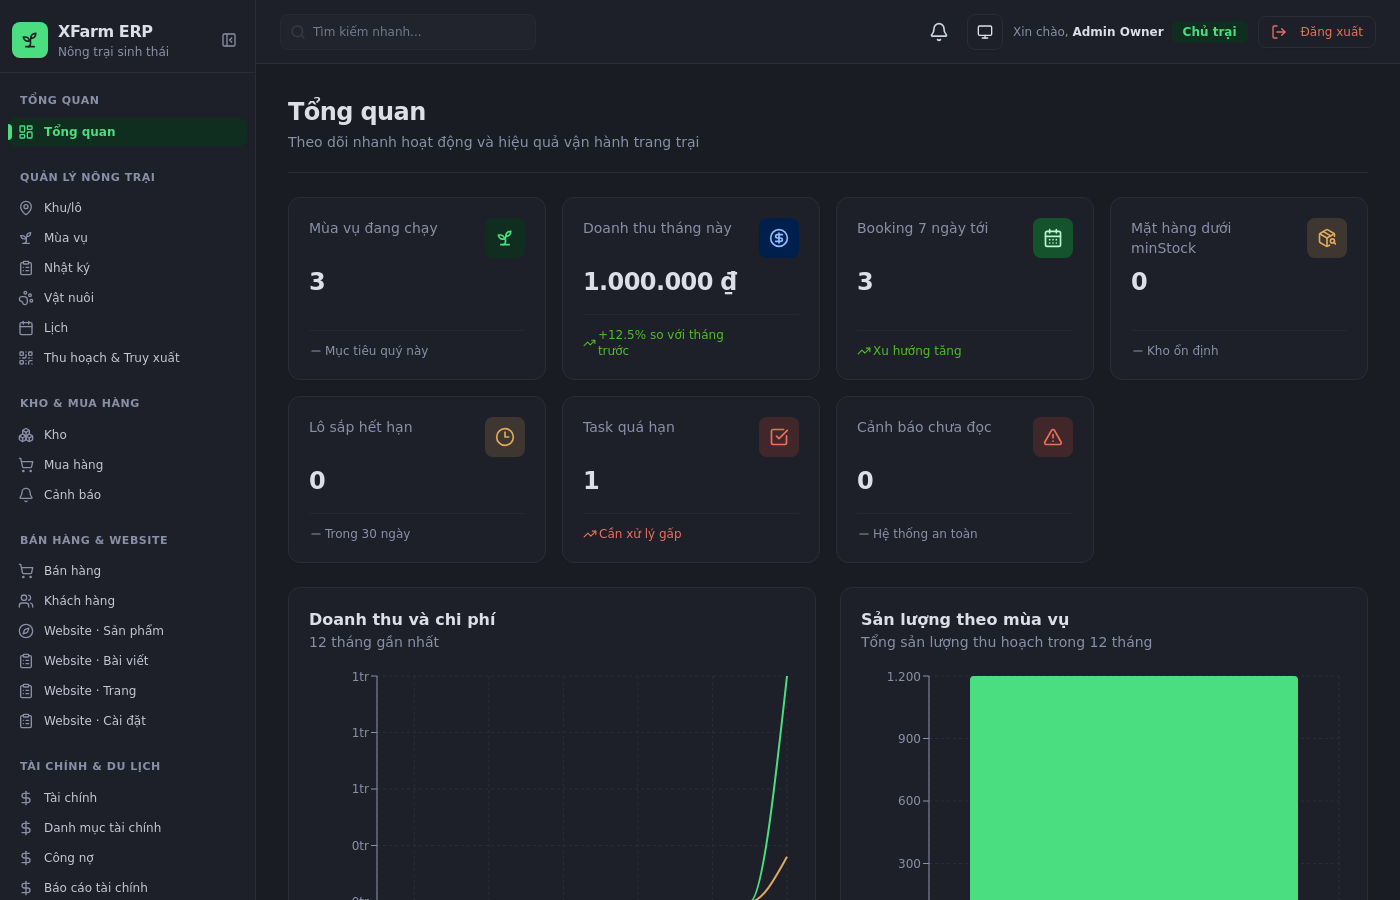
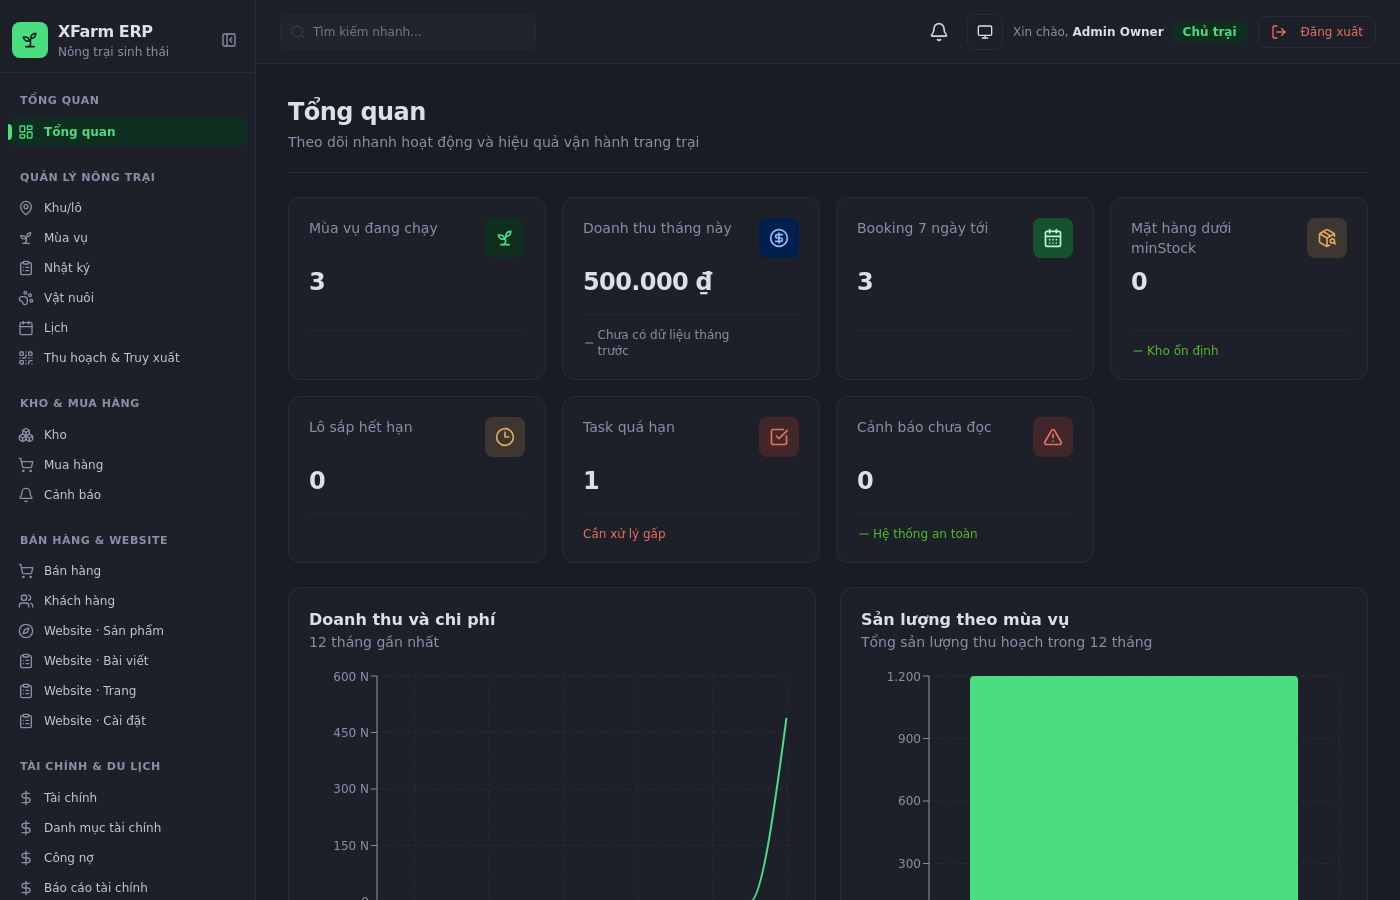
fix(web): calculate real revenue trend and format compact y-axis on dashboard

diff --git a/apps/web/src/app/admin/page.tsx b/apps/web/src/app/admin/page.tsx
@@ -65,6 +65,10 @@ const emptySummary: Summary = {
 
 const money = new Intl.NumberFormat('vi-VN', { maximumFractionDigits: 0 });
 const quantity = new Intl.NumberFormat('vi-VN', { maximumFractionDigits: 3 });
+const compactCurrency = new Intl.NumberFormat('vi-VN', {
+  notation: 'compact',
+  maximumFractionDigits: 1,
+});
 
 interface KpiCardProps {
   href: string;
@@ -119,8 +123,25 @@ function KpiCard({ href, label, value, icon: Icon, tone, trend }: KpiCardProps) 
               </span>
             )}
             {trend.direction === 'neutral' && (
-              <span className="inline-flex items-center gap-0.5 font-medium text-muted">
+              <span
+                className={`inline-flex items-center gap-0.5 font-medium ${
+                  trend.isGood ? 'text-ok' : 'text-muted'
+                }`}
+              >
                 <Minus className="h-3.5 w-3.5" />
+                {trend.label}
+              </span>
+            )}
+            {!trend.direction && (
+              <span
+                className={`inline-flex items-center gap-0.5 font-medium ${
+                  trend.isGood === true
+                    ? 'text-ok'
+                    : trend.isGood === false
+                      ? 'text-crit'
+                      : 'text-muted'
+                }`}
+              >
                 {trend.label}
               </span>
             )}
@@ -173,6 +194,46 @@ export default function AdminDashboardPage() {
     quantityValue: Number(item.quantity),
   }));
 
+  const revenueTrend = React.useMemo(() => {
+    if (!charts.months || charts.months.length < 2) {
+      return { label: 'Chưa có dữ liệu tháng trước', direction: 'neutral' as const };
+    }
+    const currentMonthItem = charts.months[charts.months.length - 1];
+    const prevMonthItem = charts.months[charts.months.length - 2];
+
+    const currentRevenue = Number(summary.revenueThisMonth || currentMonthItem?.revenue || 0);
+    const prevRevenue = Number(prevMonthItem?.revenue || 0);
+
+    if (prevRevenue <= 0) {
+      return { label: 'Chưa có dữ liệu tháng trước', direction: 'neutral' as const };
+    }
+
+    const diff = currentRevenue - prevRevenue;
+    const pct = (diff / prevRevenue) * 100;
+    const formattedPct = `${pct > 0 ? '+' : ''}${pct.toLocaleString('vi-VN', {
+      maximumFractionDigits: 1,
+    })}%`;
+
+    if (pct > 0) {
+      return {
+        label: `${formattedPct} so với tháng trước`,
+        direction: 'up' as const,
+        isGood: true,
+      };
+    } else if (pct < 0) {
+      return {
+        label: `${formattedPct} so với tháng trước`,
+        direction: 'down' as const,
+        isGood: false,
+      };
+    } else {
+      return {
+        label: '0% so với tháng trước',
+        direction: 'neutral' as const,
+      };
+    }
+  }, [charts.months, summary.revenueThisMonth]);
+
   return (
     <div className="space-y-6" data-testid="dashboard-page">
       <PageHeader
@@ -199,7 +260,6 @@ export default function AdminDashboardPage() {
                 value={summary.activeCycles}
                 icon={Sprout}
                 tone="bg-accent-bg text-accent"
-                trend={{ label: 'Mục tiêu quý này', direction: 'neutral' }}
               />
             )}
             <KpiCard
@@ -208,7 +268,7 @@ export default function AdminDashboardPage() {
               value={`${money.format(Number(summary.revenueThisMonth))} ₫`}
               icon={CircleDollarSign}
               tone="bg-info-bg text-info"
-              trend={{ label: '+12.5% so với tháng trước', direction: 'up', isGood: true }}
+              trend={revenueTrend}
             />
             <KpiCard
               href="/admin/tours/bookings"
@@ -216,7 +276,6 @@ export default function AdminDashboardPage() {
               value={summary.upcomingBookings}
               icon={CalendarDays}
               tone="bg-chip text-chip-text"
-              trend={{ label: 'Xu hướng tăng', direction: 'up', isGood: true }}
             />
             {!isSales && (
               <KpiCard
@@ -227,7 +286,7 @@ export default function AdminDashboardPage() {
                 tone="bg-warn-bg text-warn"
                 trend={
                   summary.lowStockItems > 0
-                    ? { label: 'Cần bổ sung kho', direction: 'up', isGood: false }
+                    ? { label: 'Cần bổ sung kho', isGood: false }
                     : { label: 'Kho ổn định', direction: 'neutral', isGood: true }
                 }
               />
@@ -239,7 +298,11 @@ export default function AdminDashboardPage() {
                 value={summary.expiringLots}
                 icon={Clock3}
                 tone="bg-warn-bg text-warn"
-                trend={{ label: 'Trong 30 ngày', direction: 'neutral' }}
+                trend={
+                  summary.expiringLots > 0
+                    ? { label: 'Hết hạn trong 7 ngày', isGood: false }
+                    : undefined
+                }
               />
             )}
             {!isSales && (
@@ -251,7 +314,7 @@ export default function AdminDashboardPage() {
                 tone="bg-crit-bg text-crit"
                 trend={
                   summary.overdueTasks > 0
-                    ? { label: 'Cần xử lý gấp', direction: 'up', isGood: false }
+                    ? { label: 'Cần xử lý gấp', isGood: false }
                     : { label: 'Đúng tiến độ', direction: 'neutral', isGood: true }
                 }
               />
@@ -264,7 +327,7 @@ export default function AdminDashboardPage() {
               tone="bg-crit-bg text-crit"
               trend={
                 summary.unreadAlerts > 0
-                  ? { label: 'Cần kiểm tra thiết bị', direction: 'up', isGood: false }
+                  ? { label: 'Cần kiểm tra thiết bị', isGood: false }
                   : { label: 'Hệ thống an toàn', direction: 'neutral', isGood: true }
               }
             />
@@ -290,7 +353,7 @@ export default function AdminDashboardPage() {
                     <YAxis
                       stroke={colors.axis}
                       tick={{ fill: colors.axis, fontSize: 12 }}
-                      tickFormatter={(val) => `${Math.round(val / 1000000)}tr`}
+                      tickFormatter={(val) => compactCurrency.format(Number(val))}
                     />
                     <Tooltip
                       formatter={(val) => `${money.format(Number(val))} ₫`}
